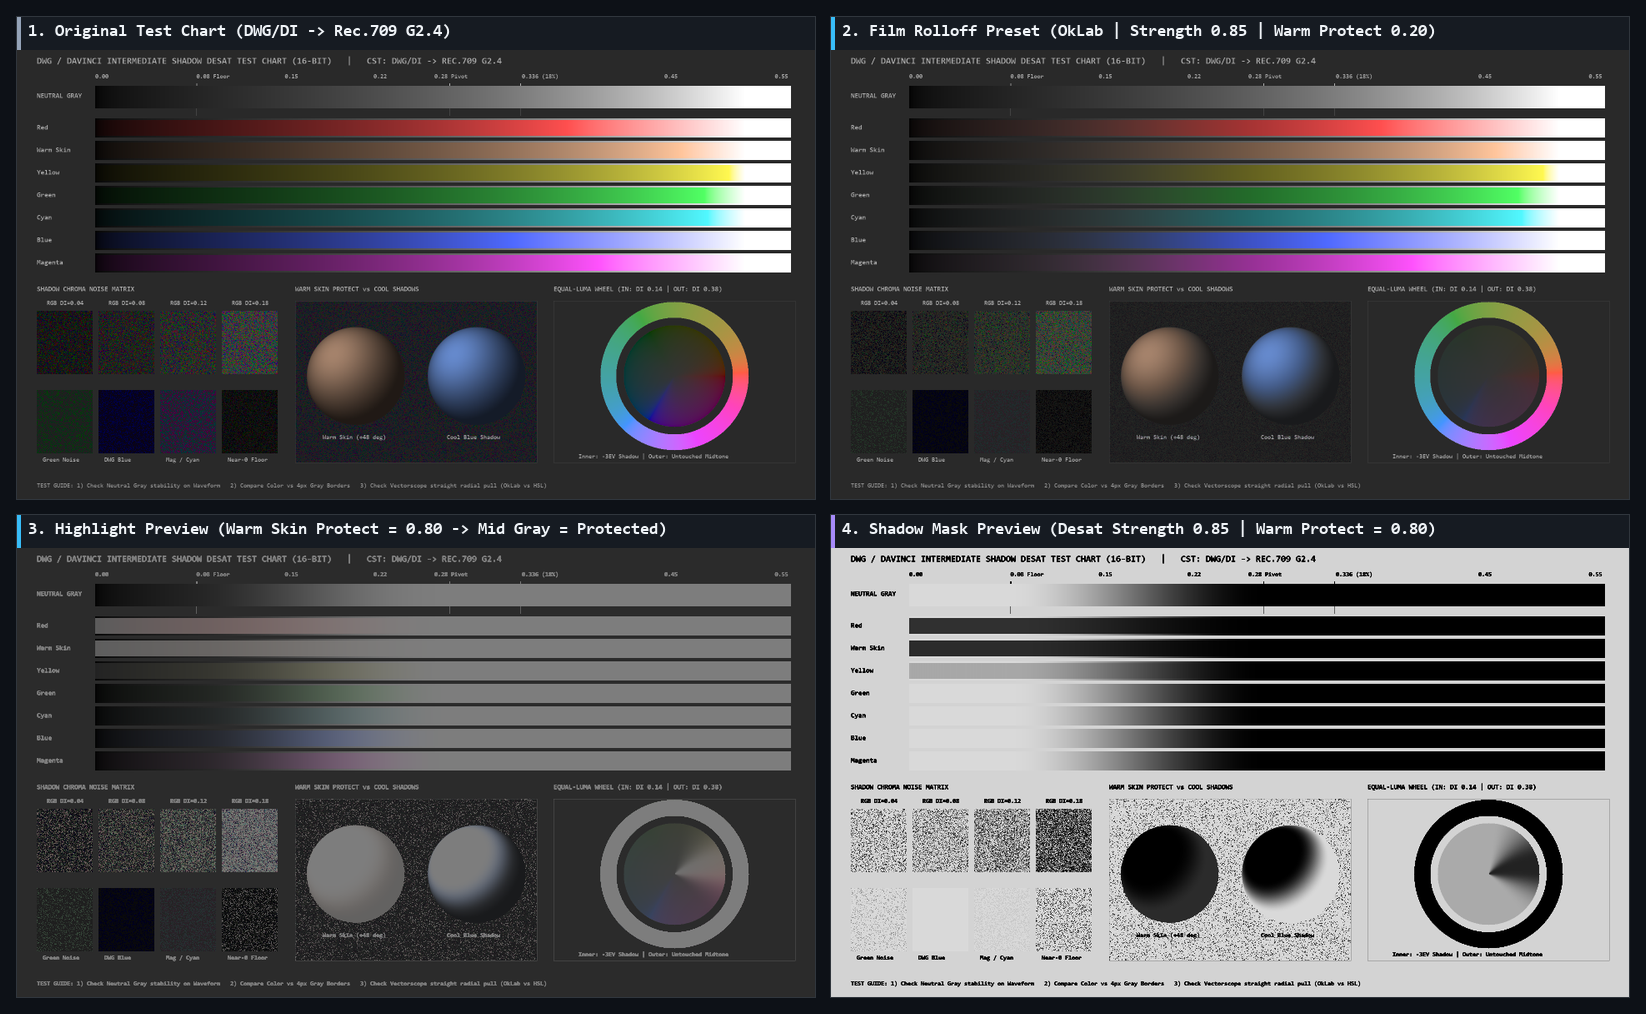
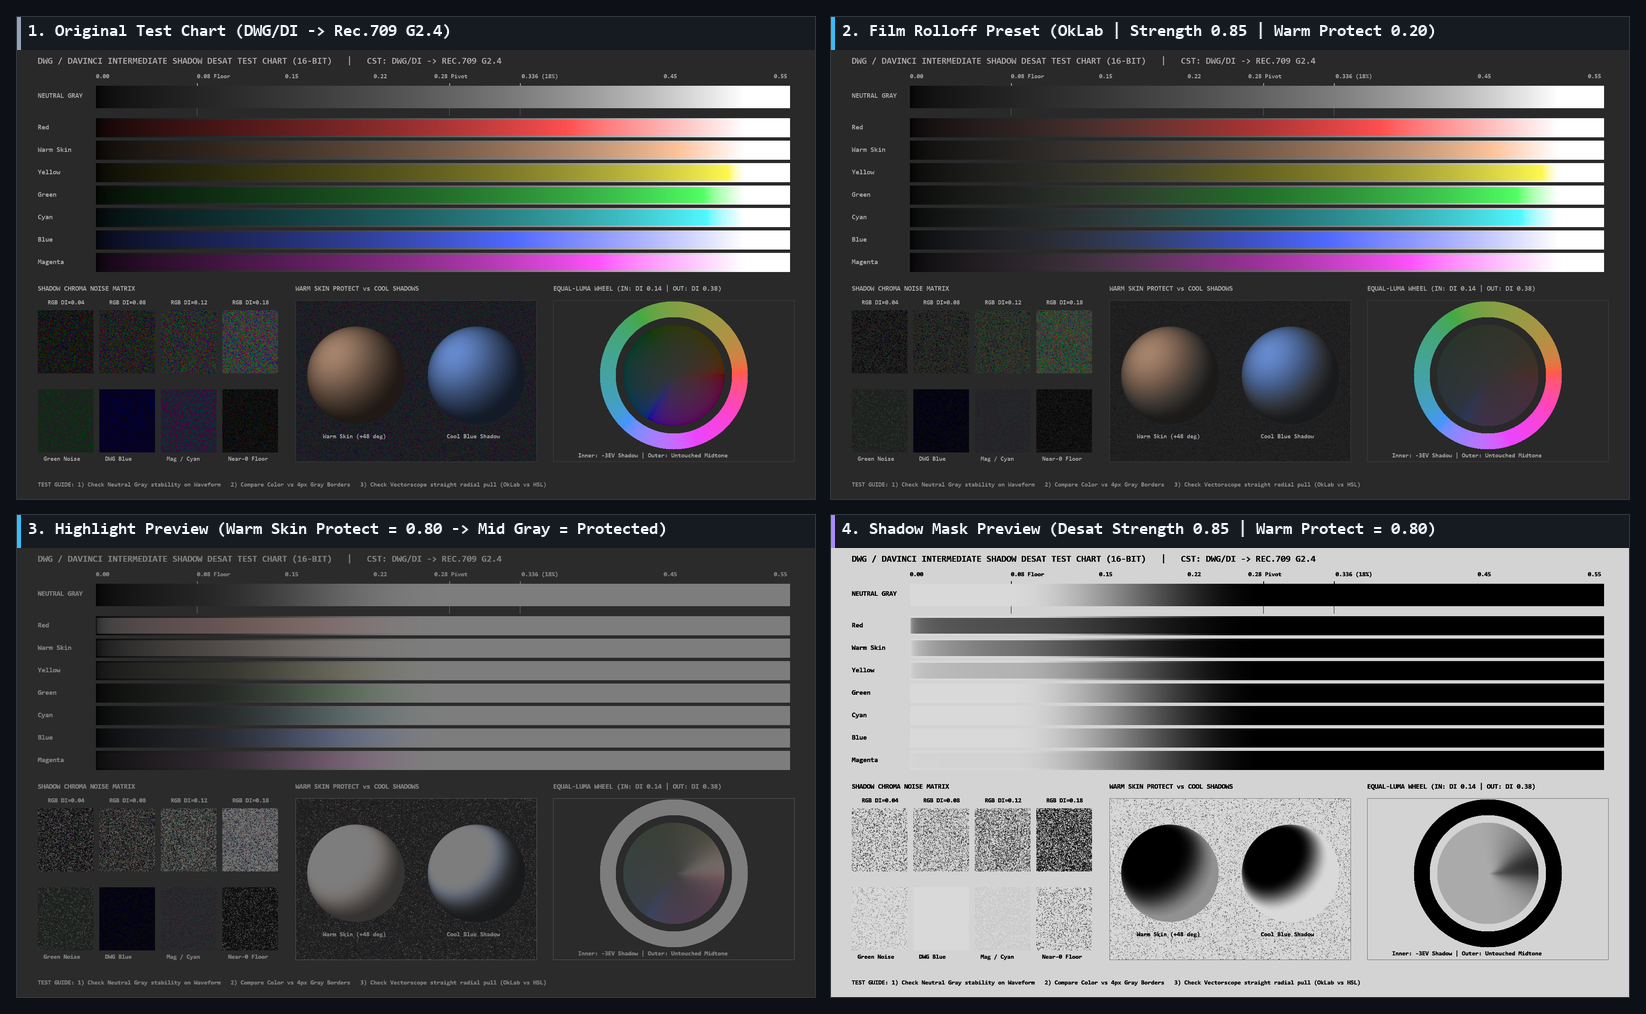
feat: upgrade Warm Skin Protect to Lorentzian chroma-regularized bell and update README/visuals

diff --git a/tests/verify_dctl.py b/tests/verify_dctl.py
@@ -161,14 +161,13 @@ def dctl_transform(
     t_shaped = np.where(t > np.float32(0.0), np.power(t, np.float32(rolloff_curve)), np.float32(0.0))
     w_shadow = smooth3(t_shaped)
 
-    # 4. Warm / Skin protect
+    # 4. Warm / Skin protect (Lorentzian chroma-regularized raised-cosine bell, sigma_c = 0.018)
     cos48 = np.float32(0.66913061)
     sin48 = np.float32(0.74314483)
-    c_lab = np.sqrt(lab[:, 1] * lab[:, 1] + lab[:, 2] * lab[:, 2])
-    c_safe = np.sqrt(lab[:, 1] * lab[:, 1] + lab[:, 2] * lab[:, 2] + np.float32(1e-8))
-    cos_diff = (lab[:, 1] * cos48 + lab[:, 2] * sin48) / c_safe
-    u_warm = np.clip((cos_diff - np.float32(0.25)) / np.float32(0.75), np.float32(0.0), np.float32(1.0))
-    warm_w = u_warm * u_warm * (np.float32(3.0) - np.float32(2.0) * u_warm)
+    c_sq = lab[:, 1] * lab[:, 1] + lab[:, 2] * lab[:, 2]
+    c_lab = np.sqrt(c_sq)
+    p_warm = np.maximum(lab[:, 1] * cos48 + lab[:, 2] * sin48, np.float32(0.0))
+    warm_w = (p_warm * p_warm) / (c_sq + np.float32(0.000324))
 
     w_eff = w_shadow * (np.float32(1.0) - np.float32(warm_protect) * warm_w)
     desat_amount = np.float32(desat_strength) * w_eff

diff --git a/README.md b/README.md
@@ -68,9 +68,14 @@
   <img src="assets/rolloff_curves.svg" alt="Shadow Rolloff Curves in DI Domain" width="100%" />
 </p>
 
-### 2. OkLab `+48°` 暖调 / 肤色定向保护窗口
+### 2. OkLab `+48°` 暖调 / 肤色定向保护窗口（洛伦兹色度软核）
 
-在 OkLab $(a, b)$ 感知色度平面以 `+48°`（暖调肤色中心方向）构建 `smoothstep` 余弦保护窗（约 $\pm 75.5^\circ$ 柔和过渡），在全额压制冷绿/青蓝/品红彩噪的同时保留暗部暖调血气：
+在 OkLab $(a, b)$ 感知色度平面以 `+48°`（暖调肤色中心方向）构建**洛伦兹色度正则化余弦平方钟形窗**（Lorentzian-Regularized $\cos^2$ Field，正则尺度 $\sigma_C = 0.018$）：
+
+$$w_{\text{warm}} = \frac{\max(a \cos 48^\circ + b \sin 48^\circ,\ 0)^2}{a^2 + b^2 + \sigma_C^2} \quad (\sigma_C = 0.018)$$
+
+- **低色度自动退避**：极低色度的黑发、近中性阴影及视频压缩块不会因微弱色相角抖动触发保护跳变，始终保持常态压噪；
+- **零平顶连续过渡**：消除固定角度阈值造成的等高线裁切硬边，在全额压制冷绿/青蓝/品红彩噪的同时，让暗部暖调血气随色度柔和渐入。
 
 <p align="center">
   <img src="assets/warm_skin_polar.svg" alt="Warm Skin Protect Polar Response" width="100%" />
@@ -121,13 +126,14 @@ flowchart LR
 | **4. Black Floor** | **极暗满额阈值** | `0.08` (`0.00 ~ 0.35`) | 低于此阈值的极暗底噪区吃满 `Desat Strength` 设定的最大力度；`Black Floor` 与 `Shadow Pivot` 之间平滑过渡。 |
 | **5. Rolloff Curve** | **衰减曲线形态** | `1.00` (`0.40 ~ 2.20`) | 控制过渡区的缓急：<br>`< 1.0` = 靠向中间调早早开始温柔滚落（胶片感）；<br>`> 1.0` = 紧贴极暗区收拢陡降（专注压底噪，少动次暗部）。 |
 | **6. Chroma Density** | **色彩密度 / 亮暗补偿** | `-0.08` (`-0.50 ~ +0.30`) | **仅对有色像素生效，中性灰阶（$R=G=B$）绝对 0 变化**：<br>• **负值（如 `-0.08 ~ -0.20`）**：模仿胶片减色法密度感，让暗部绿/品红彩噪在消色的同时温和下沉融入黑位，避免“亮白麻点”；<br>• **正值（如 `+0.05 ~ +0.15`）**：补偿高饱和色彩去色后的 HK 视觉变暗感。 |
-| **7. Warm Skin Protect** | **暗部暖调 / 肤色保护** | `0.00` (`0.00 ~ 1.00`) | 保护阴影中的红-橙-黄暖调（特别是背光面肤色、烛光/霓虹暖光）不被抽成死灰，同时对冷绿、青蓝、品红彩噪保持全额压制。 |
+| **7. Warm Skin Protect** | **暗部暖调 / 肤色保护** | `0.00` (`0.00 ~ 1.00`) | 保护阴影中的红-橙-黄暖调（特别是背光面肤色、烛光/霓虹暖光）不被抽成死灰，同时对冷绿、青蓝、品红彩噪保持全额压制。<br>采用**洛伦兹色度正则化余弦平方钟形窗**（`+48°`，$\sigma_C = 0.018$）：极低色度的黑发与暗部噪块平滑退出保护，暗部肤色随色度柔和渐入且无高数值裁切感。 |
 | **8. Preview - Set Off for LUT** | **预览模式** | `Off - LUT Safe` | **`Off - LUT Safe`**：正常画面输出（导出 LUT 前务必切回此项）；<br>**`Highlight`**：类似达芬奇限定器 `Shift+H` 高亮显示——选中的暗部保留显示处理后画面，未受影响的中灰/高光及被 `Warm Skin Protect` 保护的暖调肤色压成 18% 中灰（`0.336`），直观核查实际选区范围；<br>**`Shadow Mask`**：黑白权重遮罩（越白代表消色力度越大）；<br>**`Desat Delta 4x`**：4 倍放大显示被消除掉的色彩/噪点差值，便于检查是否误伤正常色彩。 |
 
 ### 💡 滑块联动与预览模式使用贴士
 
 1. **33 点 LUT 最小过渡跨度防呆保护**：为防止将 `Shadow Pivot` 与 `Black Floor` 拉得过近导致导出 33 点或 65 点 LUT 时跨格漏采出现断层，插件内置了 `0.085 ~ 0.14`（随 `Rolloff Curve` 动态适配）的最小过渡跨度保护。当两者间距小于该安全跨度时，插件会**优先锁定 `Shadow Pivot` 不变**，并自动将实际生效的 `Black Floor` 下推到 `Shadow Pivot - min_span`（此时在上限附近微调 `Black Floor` 若画面无变化属于正常防断层保护）。
 2. **`Highlight` 与 `Shadow Mask` 的分工**：`Highlight` 预览的是选区权重（即使 `Desat Strength = 0.0` 也能用来框选并检查 `Shadow Pivot` / `Black Floor` / `Warm Skin Protect` 的作用范围）；而 `Shadow Mask` 预览的是最终实际施加的消色力度（随 `Desat Strength` 缩放）。
+3. **`Warm Skin Protect` 的平滑过渡特性**：即使将 `Warm Skin Protect` 拉高至 `0.80 ~ 1.00`，近中性灰的低色度区域（如黑发发丝、暗影底噪）也不会因微弱偏色发生角度撕裂，而在暗部肤色交界处会随色度连续羽化，避免 `Shadow Mask` 出现锯齿或等高线硬边。
 
 ---
 
@@ -192,3 +198,12 @@ dwg-shadow-desat-dctl/
     ├── generate_test_chart.py             # 16-bit 测试卡生成脚本
     └── preview_rec709.png                 # 测试卡 Rec.709 模拟预览图
 ```
+
+---
+
+## 📝 更新日志
+
+### 2026-11-23 — `Warm Skin Protect` 洛伦兹软核算法升级
+- **消除高数值下的硬边裁切感**：将 [DWG_Shadow_Desat.dctl](DWG_Shadow_Desat.dctl) 中的暖肤色保护权重重构为 **洛伦兹色度正则化余弦平方钟形窗**（Lorentzian-Regularized $\cos^2$ Field，OkLab `+48°` 轴，$\sigma_C = 0.018$）。
+- **消除低色度暗部边缘撕裂**：黑发、近中性阴影及视频压缩块等极低色度区域平滑退出保护，不再因微弱色相角抖动触发跳变；中高色度暗部肤色交界处呈现连续羽化渐变，保留立体层次。
+- **文档与可视化同步**：同步更新 [`tests/verify_dctl.py`](tests/verify_dctl.py)、[`assets/warm_skin_polar.svg`](assets/warm_skin_polar.svg) 极坐标响应图、[`assets/comparison_rec709.png`](assets/comparison_rec709.png) 四宫格实测对比图及本 README，全部 9 项自动化回归测试均已通过。
